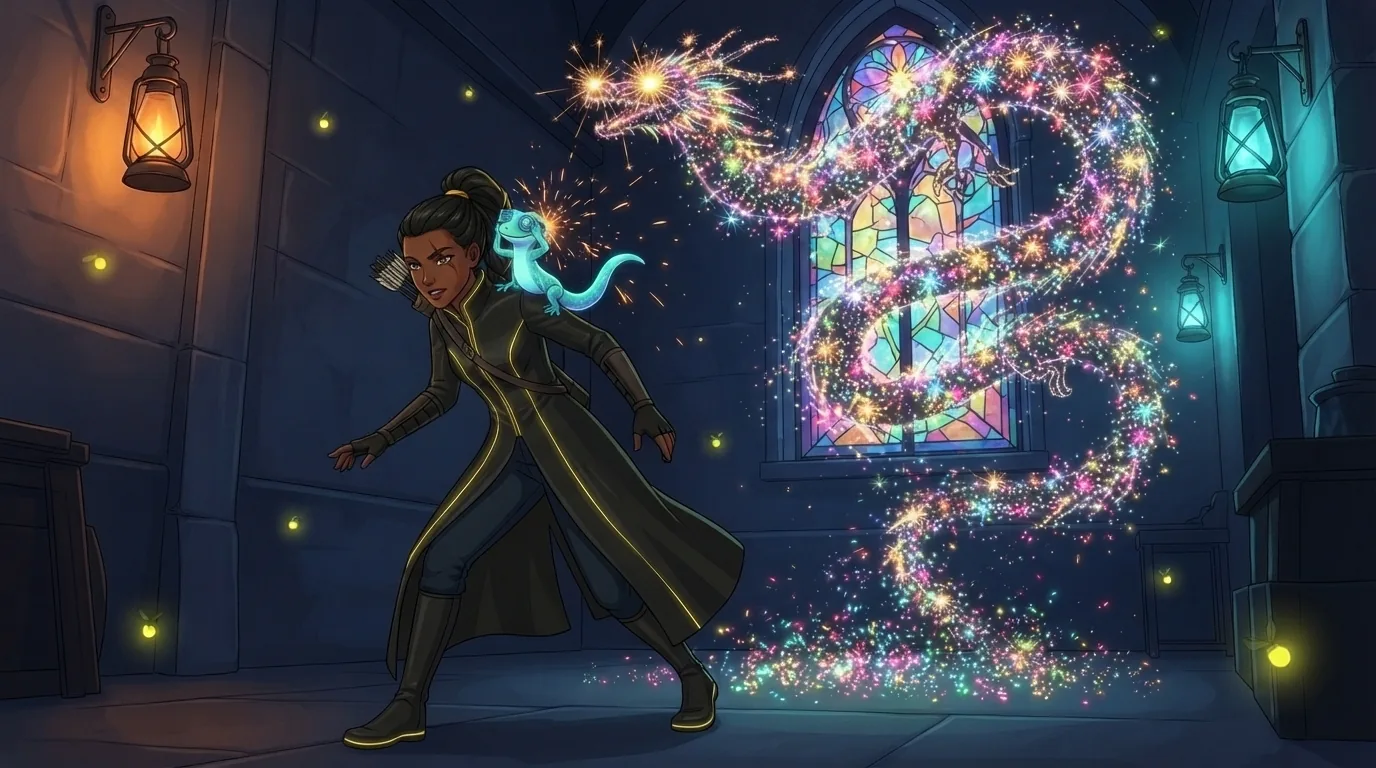
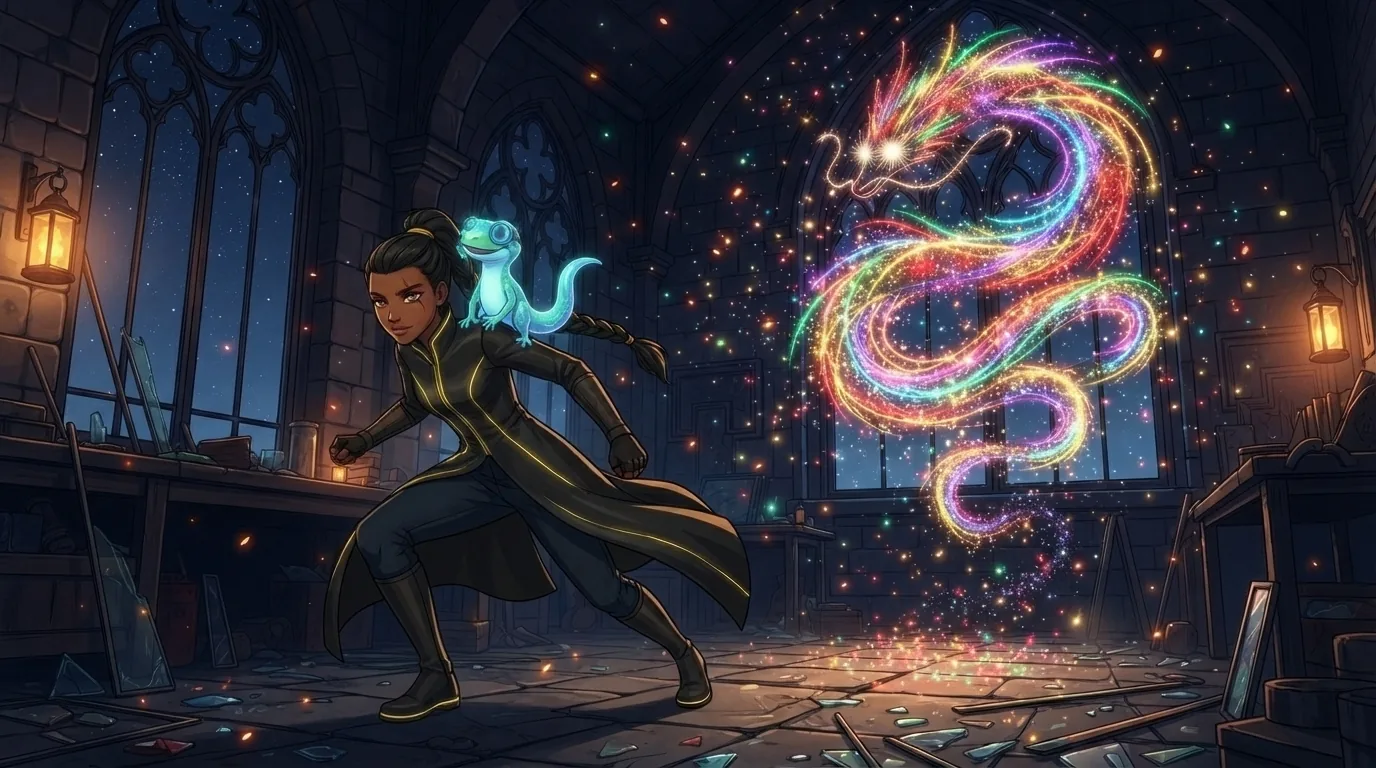
content(js): S02 completa y S03 en curso (255 de 313); troll y dragón rehechos con su hoja

diff --git a/scripts/escenas/pendientes.py b/scripts/escenas/pendientes.py
@@ -208,8 +208,8 @@ REFS = {
             # «Un troll chiquito y gruñón» es una criatura de feria, no el jefe.
             (r'troll chiquito', 'el troll chiquito de feria', ['1d079c0700224221b55e0b9f9bb68949'],
              'El troll chiquito de feria es del alto de un nene de seis años: piel color musgo grisáceo, nariz de papa, pelo de paja y chaleco remendado (el de la izquierda en su referencia).'),
-            (r'\bTroll\b(?! chiquito)|Respuestas Cruzadas', 'el Troll de las Respuestas Cruzadas', ['4997fb2d079a4e5f8d368df45f4caf0e'], 'El Troll mide dos metros y medio.'),
-            (r'Drag[oó]n', 'el Dragón de los Fuegos Artificiales', ['e52542221e7f4053b78a2b7321ac844c'], ''),
+            (r'\b[Tt]roll\b(?! chiquito)|Respuestas Cruzadas', 'el Troll de las Respuestas Cruzadas', ['4997fb2d079a4e5f8d368df45f4caf0e'], 'El Troll mide dos metros y medio.'),
+            (r'[Dd]rag[oó]n', 'el Dragón de los Fuegos Artificiales', ['e52542221e7f4053b78a2b7321ac844c'], ''),
             (r'Polilla', 'la Polilla de los Formularios', ['02a2e1327123409fafe7ed0ed5f2e78e'], 'La Polilla es del tamaño de un perro grande.'),
             (r'Rat[oó]n', 'el Ratón de la Niebla', ['edba9f307a1c4351825086c4ba8c9dcd'], 'El Ratón es del tamaño de un gato.'),
             (r'Herrumbre', 'la Herrumbre', ['8a4b1435aad54333bc96d273832ba9f2'], ''),

diff --git a/docs/ESCENAS.md b/docs/ESCENAS.md
@@ -87,7 +87,7 @@ Qué anduvo (C#, con `GEMINI_3_8_FLASH`; el modelo liviano lo achica y le deja m
 | Ensamblador (antes) | 26 de 31 | Faltan `R01-N03-P7` y `R01-N04-P1`, `P3`, `P6` y `P7` (2026-10-19): las que llevan a Axón o a Kira se cortan por tiempo, con su ficha o descritos con palabras; las de Nova sola salen. En `R01-N04-P5` Stitch cambió a Nova (pelo castaño corto) y se corrigió con [escena, ficha de Nova] y «la chica pasa a ser Nova exactamente como en la segunda»; en `P2` y `P4` sobraba un Gheco (pedir «borrá el gecko de…»). Para rehacer si sobra cuota: `R01-N03-P3` y `P4` (la mochila salió con 3 y 4 bolsillos, no 5) y `P6` (Nova repite la pose de `P5` y no saca la moneda). En R01-N03 anduvo pedir con una sola referencia, la escena `R01-N03-P1` (`9010b157…`), y la mochila de `P3` (`eb5697f1…`); con dos referencias se cortaba seguido. Las primeras 17, en el **proyecto de C** (el Gólem duerme debajo de las Forjas). Nova, Axón, el fondo del interior del Gólem, el logo, la moneda (chispa) y los 6 aspectos de Nova se generaron ahí (`REFS['ensamblador']`). Las escenas usan como referencia el fondo + la ficha de Nova + Gheco, o una escena anterior del mismo lugar (la sala del ojo, la pared de cajones); encadenar siempre la misma da poses repetidas: alternar. Los 6 aspectos salieron en una sola hoja 3×2 recortada con PIL. El 2026-10-19 Nova pasó al diseño recatado (capa de cuello alto, ropa opaca; ficha `66dcc917…`): las 17 escenas, la ficha de Axón y los aspectos se rehicieron con `edit_screens` [escena, ficha de Nova] y el pedido «la chica holograma pasa a ser Nova exactamente como en la segunda, misma pose y lugar». Revisar que no aparezca texto en los visores. |
 | PHP | 273 de 273 | **Completo (2026-10-26)**; falta importar en local y `deploy.sh --cursos`. Lecciones del cierre (S03-N03 a S04): con el modelo liviano anduvo pedir «from scratch» con las fichas de Nilo e Iara (`3defe2e1…`, `5d09d4c2…`) cuando la escena anterior como referencia le sacaba a Nilo la gorra y la bufanda o lo vestía de remera; encadenar la misma escena repite la pose (y una vez salieron dos Nilos y dos Gheco). Si Stitch devuelve un enlace de `stitch.googleapis.com` (pide credenciales), bajar con `download_file` y pasarle a `guardar.py` el .txt de la respuesta. Un pedido de corrección a veces vuelve cuadrado (1024×1024): repetirlo pidiendo «same horizontal 16:9 format». Arreglos con PIL: una orca de más en el cielo (`S03-N03-P3`), letreros y pizarrones con letras (`S04-N01-P1`, `S04-N03-P2` «HARBOR» en tiza, `S04-N04-P3`, `S04-N05-P1`, `S04-N05-P2`) y garabatos en un papel (`S04-N03-P1`). Se rehizo `S04-N01-P1` porque el vidrio roto parecía un robo (alumnos chicos). Antes: Micro-misiones de D111 desde el 2026-10-21; el 2026-10-23 se completaron R01 y R02 y R03-N01 a N03; el 2026-10-25/26, R03, R04, R05 y S01-N01 a N04-P2 (ids en `scripts/escenas/ids/php.json`); sigue `S01-N04-P3`. Ojo en R05: la cola de Gheco se le pegaba a Nilo como cola cian (pedir «an ordinary human boy with no tail»); Elefa lejos sale vestida como Nilo (traerla al frente y describir la armadura «head to toe»); el bolso remendado de Nilo trae a veces un parche cian con forma de gecko, que vale (Iara se lo cosió después de la Gorgona). `guardar.py` ya recorta solo las franjas negras que agrega Stitch. Antes: sigue `R03-N05-P1`; antes `R01-N05-P6`. Lo que anduvo: las fichas con «from scratch» o la escena anterior como única referencia; si la anterior tiene un barco o un objeto llamativo, lo arrastra (el barco tortuga). Elefa sale del tamaño de una persona si no se pide «HUGE, almost one meter taller than every person»; volvió la cola cian suelta (corregida con «remove the glowing cyan tail»). Stitch escribió «La Fonda del Puerto» en el cartel porque lo puso en su propio pedido: corregir con «plain bare wood with a small carved drawing». La pipa del capitán de `R01-N03-P7` se sacó (alumnos chicos). Antes: la Clase 0 y R01 completos (2026-10-13), más 18 sueltas de R03–R05 hechas para la temporada del Puerto (2026-10-14, fila de abajo); R02-N01 a R02-N08 (2026-10-18), encadenando cada escena con la anterior del mismo lugar; sigue `R02-N08-P4`. Ojo en R02: Stitch escribió «LEFT/RIGHT» junto a flechas y rotulitos en estantes (tapados con PIL), a veces dibuja un segundo Gheco en un cartel o le da a Elefa dos bastones (pedir «sostiene con LAS DOS MANOS su ÚNICO bastón»); con la referencia de una escena, Iara y Elefa pueden perder su ropa: corregir pasando su ficha como segunda referencia. La Sirena ya está descrita con blusa cerrada en los .md y en PERSONAJES.md. Ojo: a veces sale un segundo Gheco o una cola cian suelta; pedir «UN SOLO Gheco». Para rehacer si sobra cuota: `R01-N08-P4` (las cajas no quedaron una dentro de la otra). Gheco a veces sale más grande que una mano y algún número de objetos no coincide (3 cajones en vez de 4): se dejaron cuando no cambia la escena. Historia, personajes y mapa en el proyecto de PHP (`REFS['php']`, docs/historias/php.md). Ojo: una corrección con `edit_screens` puede redibujar la escena entera (la de Elefa en el mostrador perdió la gorra de Nilo al arreglarle la bufanda): mirar cada versión. |
 | C# | 25 de 25 | Demostración completa (2026-11-04), en el proyecto de la Feria; el 2026-11-05 se rehicieron las 10 con Gheco para que sea el oficial (ver arriba). Con Ceci, usar siempre su ficha `6d9cb358…` como referencia, y pedir «pantalón oscuro, sin falda»: tomando como referencia una escena con ella, salía con falda. |
-| JavaScript | 241 de 313 | En curso (2026-11-06): Clase 0 y R01 a R05 completas, S01 completa; sigue S02. **Lo que más rindió el 2026-11-06 (unas 3 escenas cada 2 minutos):** en lugar del pedido largo de `pendientes.py`, uno corto con UNA referencia que sea una escena buena del mismo lugar y los mismos personajes («Generá una IMAGEN NUEVA de escena, con los mismos dos personajes y el mismo taller de esta imagen…»). Con pedidos de 4 o 5 referencias se corta más. Si dice «ya está generada» sin devolverla, otra referencia y «Dibujá una pantalla nueva, en otra disposición». Se escapan letras en vidrios y pizarrones del fondo (`S01-N04-P4`, `S01-N03-P4`, tapadas): mirar cada imagen. Si Gheco va en la capucha se mezcla con Nima (`R05-N07-P1`): pedirlo en el hombro. **Desde `R04-N05-P1` Nima va con saco de cuero largo hasta los muslos** (`pendientes.py` y referencia `0f9fcc6d…`): con la chaqueta corta Stitch le dejaba la panza al aire casi siempre y el parche de `tapar.py` se notaba; las escenas anteriores siguen con la corta. Se puede pedir corto si se usa de referencia una escena buena con los mismos personajes (Nima y Saeta `a409a244…`, torre con campana `08fc7b12…`, Nilo y Elefa `b003d98a…`). Sin la referencia de cuerpo entero de Nima `2fca95e3…` (y aun con ella) se le ve piel en la cintura o la espalda: se tapa con `tapar.py … piel 24`. Si la referencia ya tiene a un personaje, puede salir repetido: pedir «exactamente tres figuras». Hilván salía aniñado o moreno: `pendientes.py` lo pide «HOMBRE ADULTO», y si salen dos iguales, pedir «exactamente UN solo Hilván» y decir dónde está parado. Los títeres de bailarina salían como chicas reales: pedirlos chiquitos, de madera con articulaciones y vestido largo. Con una «escena sin personas» conviene describir el esqueleto o la criatura. Revisar siempre cajones y carteles: en `R03-N06-P6` Stitch escribió su pedido negativo en los cajones (se tapó). Se pueden mandar 3 pedidos de Stitch a la vez. Bruno, Tati, Hilván y Gheco salían con otra ropa o color aunque estuviera la referencia: `pendientes.py` ya describe su ropa en cada pedido, y conviene sumar como referencia una escena buena con ellos (Hilván y Nima `938608ee…`, Bruno y Tati `9b10bc57…`). Los telones de fondo y los talleres con engranajes salen con runas o signos: pedir «fondo de tela lisa» y «cuarto de paredes de madera lisa, sin engranajes ni luces de colores». Los farolitos de papel salen con trazos que parecen letras chinas: pedir «lamparitas redondas de vidrio». Detalles aceptados: círculos decorativos en `R03-N02-P3` y triángulos en el telón de `R03-N02-P5`. `pendientes.py` ya arma el pedido de JS con la 2.ª referencia de Nima, «UNA sola vez», Lumina como insecto (salía hada) y el cierre corto «Imagen solo de dibujo, sin escritura» (el pedido negativo largo lo escribía en los papeles). Antes de mandar, cambiar a mano lo que invita a escribir: «cartel», «número», «cuentas», «lista» → dibujitos, rayitas de tiza, puntitos, monedas; las boleterías salen con «TICKET» en el frontón: pedir «el frontón, solo con flores pintadas»; las estrellas pintadas, como chispa; los palitos de a cinco salían como letras chinas (usar puntitos); con gente en fila, pedir aldeanos europeos (chalecos, boinas, faldas largas) o salen kimonos. Si salen dos Gheco, regenerar con «un solo Gheco» (borrarlo deja mancha). Piel de Nima a la vista: `tapar.py ESCENA X0 Y0 X1 Y1 piel 24` la pinta como remera oscura. Los orcos de feria usan la referencia del ogro de la Feria (gris azulado, pelo naranja; sin ella salían como goblins). Stitch sigue escribiendo su propio pedido negativo («ABSOLUTELY NO LETTERS…») en papeles y carteles, y a veces deja a Nima con la panza al aire aun con la 2.ª referencia: se tapan con `python3 scripts/escenas/tapar.py ESCENA X0 Y0 X1 Y1 oscuro|claro UMBRAL` (letras oscuras o piel clara, rellenando con lo de alrededor); las ediciones de Stitch para arreglarlo a veces rehacen la escena entera o la parten en dos viñetas. Proyecto de los **Talleres** (`9229721314509917104`, ahí estaban Nima, Lumina y Gheco); la gente de la Feria y los cruces (Nilo, Iara, Elefa, Pico, Nova, Axón) se dibujaron ahí el 2026-10-30 (ids en `REFS['javascript']`). **Lecciones:** «faroles de papel» vuelve la Feria un festival japonés con letras orientales y máscaras: el ambiente pide «feria de pueblo europea antigua… nada oriental»; pizarras: describir lo que tienen (estrellitas, círculos de tiza), nunca «sin letras» (escribió «NO letters» en la pizarra); estrellas pintadas, «rellenas» o un sol (salió un pentagrama); Gheco con una lupa sale enorme: «cabe en la palma de una mano»; los ogros de feria, verdes, salían como Shrek: ahora tienen referencia propia (gris azulado, pelo naranja); si un cartel sale con letras, se corrige editando esa misma pantalla («borrá las letras y pintá estrellitas»), pero a veces la edición rehace toda la escena (Nima salió de soldado): si pasa, generarla de nuevo desde las referencias, describiendo qué tiene dibujado cada papelito. Con el modelo liviano Nima a veces sale con la panza al aire: por eso lleva de segunda referencia la escena de la calesita (R01-N03-P1); `pendientes.py` pone una sola pantalla por personaje, así que esa se agrega a mano. Una vez escribió el pedido negativo como texto al pie: se recorta la franja. Con 2–3 referencias y el modelo liviano salen casi todas al primer intento. |
+| JavaScript | 255 de 313 | En curso (2026-11-06): Clase 0 y R01 a R05 completas, S01 y S02 completas; S03 hasta N01-P2. **Regla del docente (2026-11-06): cada personaje de una escena va con su hoja de 8 ángulos**, para mantener las proporciones; una escena anterior puede sumarse para el lugar, pero no la reemplaza. `pendientes.py` no reconocía «troll» y «dragón» en minúscula: `R04-N08` y `R05-N07` salieron con otro diseño y se rehicieron con su hoja (ya corregido). Sin hoja en este proyecto queda Fermín (`S02-N04-P3`, la suya está en el de PHP). La polilla de `S01-N04` se hizo con su imagen `02a2e132…`, no con la hoja: coincide y quedó. **Lo que más rindió:** pedidos cortos con 1 a 3 referencias, unas 3 escenas cada 2 minutos; con 5 se corta más. Si dice «ya está generada» sin devolverla, otra referencia y «Dibujá una pantalla nueva, en otra disposición». Las «crucecitas» salen como crucifijos: pedir «botoncito redondo con dos rayitas cruzadas en aspa». Se escapan letras en vidrios y pizarrones del fondo (`S01-N04-P4`, `S01-N03-P4`, tapadas): mirar cada imagen. Si Gheco va en la capucha se mezcla con Nima (`R05-N07-P1`): pedirlo en el hombro. **Desde `R04-N05-P1` Nima va con saco de cuero largo hasta los muslos** (`pendientes.py` y referencia `0f9fcc6d…`): con la chaqueta corta Stitch le dejaba la panza al aire casi siempre y el parche de `tapar.py` se notaba; las escenas anteriores siguen con la corta. Se puede pedir corto si se usa de referencia una escena buena con los mismos personajes (Nima y Saeta `a409a244…`, torre con campana `08fc7b12…`, Nilo y Elefa `b003d98a…`). Sin la referencia de cuerpo entero de Nima `2fca95e3…` (y aun con ella) se le ve piel en la cintura o la espalda: se tapa con `tapar.py … piel 24`. Si la referencia ya tiene a un personaje, puede salir repetido: pedir «exactamente tres figuras». Hilván salía aniñado o moreno: `pendientes.py` lo pide «HOMBRE ADULTO», y si salen dos iguales, pedir «exactamente UN solo Hilván» y decir dónde está parado. Los títeres de bailarina salían como chicas reales: pedirlos chiquitos, de madera con articulaciones y vestido largo. Con una «escena sin personas» conviene describir el esqueleto o la criatura. Revisar siempre cajones y carteles: en `R03-N06-P6` Stitch escribió su pedido negativo en los cajones (se tapó). Se pueden mandar 3 pedidos de Stitch a la vez. Bruno, Tati, Hilván y Gheco salían con otra ropa o color aunque estuviera la referencia: `pendientes.py` ya describe su ropa en cada pedido, y conviene sumar como referencia una escena buena con ellos (Hilván y Nima `938608ee…`, Bruno y Tati `9b10bc57…`). Los telones de fondo y los talleres con engranajes salen con runas o signos: pedir «fondo de tela lisa» y «cuarto de paredes de madera lisa, sin engranajes ni luces de colores». Los farolitos de papel salen con trazos que parecen letras chinas: pedir «lamparitas redondas de vidrio». Detalles aceptados: círculos decorativos en `R03-N02-P3` y triángulos en el telón de `R03-N02-P5`. `pendientes.py` ya arma el pedido de JS con la 2.ª referencia de Nima, «UNA sola vez», Lumina como insecto (salía hada) y el cierre corto «Imagen solo de dibujo, sin escritura» (el pedido negativo largo lo escribía en los papeles). Antes de mandar, cambiar a mano lo que invita a escribir: «cartel», «número», «cuentas», «lista» → dibujitos, rayitas de tiza, puntitos, monedas; las boleterías salen con «TICKET» en el frontón: pedir «el frontón, solo con flores pintadas»; las estrellas pintadas, como chispa; los palitos de a cinco salían como letras chinas (usar puntitos); con gente en fila, pedir aldeanos europeos (chalecos, boinas, faldas largas) o salen kimonos. Si salen dos Gheco, regenerar con «un solo Gheco» (borrarlo deja mancha). Piel de Nima a la vista: `tapar.py ESCENA X0 Y0 X1 Y1 piel 24` la pinta como remera oscura. Los orcos de feria usan la referencia del ogro de la Feria (gris azulado, pelo naranja; sin ella salían como goblins). Stitch sigue escribiendo su propio pedido negativo («ABSOLUTELY NO LETTERS…») en papeles y carteles, y a veces deja a Nima con la panza al aire aun con la 2.ª referencia: se tapan con `python3 scripts/escenas/tapar.py ESCENA X0 Y0 X1 Y1 oscuro|claro UMBRAL` (letras oscuras o piel clara, rellenando con lo de alrededor); las ediciones de Stitch para arreglarlo a veces rehacen la escena entera o la parten en dos viñetas. Proyecto de los **Talleres** (`9229721314509917104`, ahí estaban Nima, Lumina y Gheco); la gente de la Feria y los cruces (Nilo, Iara, Elefa, Pico, Nova, Axón) se dibujaron ahí el 2026-10-30 (ids en `REFS['javascript']`). **Lecciones:** «faroles de papel» vuelve la Feria un festival japonés con letras orientales y máscaras: el ambiente pide «feria de pueblo europea antigua… nada oriental»; pizarras: describir lo que tienen (estrellitas, círculos de tiza), nunca «sin letras» (escribió «NO letters» en la pizarra); estrellas pintadas, «rellenas» o un sol (salió un pentagrama); Gheco con una lupa sale enorme: «cabe en la palma de una mano»; los ogros de feria, verdes, salían como Shrek: ahora tienen referencia propia (gris azulado, pelo naranja); si un cartel sale con letras, se corrige editando esa misma pantalla («borrá las letras y pintá estrellitas»), pero a veces la edición rehace toda la escena (Nima salió de soldado): si pasa, generarla de nuevo desde las referencias, describiendo qué tiene dibujado cada papelito. Con el modelo liviano Nima a veces sale con la panza al aire: por eso lleva de segunda referencia la escena de la calesita (R01-N03-P1); `pendientes.py` pone una sola pantalla por personaje, así que esa se agrega a mano. Una vez escribió el pedido negativo como texto al pie: se recorta la franja. Con 2–3 referencias y el modelo liviano salen casi todas al primer intento. |
 | Inglés · Forjas (temporada 2) | 24 de 24 | Completo (2026-10-14): una portada por episodio, tronco y ramas, `FORJAS-01` a `FORJAS-12` (Ada niña) y `FORJAS-S01` a `FORJAS-S12` (Ada de 15), en `cursos/ingles/escenas/`; las misiones reusan las de C. Hechas en el **proyecto de C** (`12453694413360128121`): Stitch solo toma referencias del mismo proyecto, así que primero se recrearon las hojas de Ada niña (`4eb59d68037844c09f3cf2aafdd77cd4`) y de Ada de 15 (`a94bdbb01fe44e2eb49eea421419838c`) con Eco y el Borrón desde sus fichas, y después cada portada con la hoja + el personaje de la región. **Cada temporada nueva repite esto en el proyecto de su región.** De a una llamada (dos en paralelo ya se cortan); para pasar una escena de Ada niña a Ada de 15, «como la segunda, pero con Ada de 15 de la primera» con la portada de Primaria como referencia sale a la primera. Ojo: a veces le saca las cejas o el pelo a quien no corresponde, o escribe un título: revisar cada una. |
 | Inglés · Puerto (temporada 3) | 24 de 24 | Completo (2026-10-14): `PUERTO-01` a `PUERTO-12` (Ada niña) y `PUERTO-S01` a `PUERTO-S12` (Ada de 15) en `cursos/ingles/escenas/`, hechas en el **proyecto de PHP** con las hojas de Ada recreadas ahí (niña `fd32dbcd41874f3ebedd1802bb364b76`, de 15 `ec1abd3a409d48b58277a0408b62d043`). Para las de Secundaria anduvo mejor el pedido **corto** «como la segunda, con Ada de 15 y Eco joven de la primera» (los largos se cortan por tiempo). Ojo: la Sirena salió sin mangas en una (corregida: blusa cerrada con mangas y cuello alto), en otra quedaron dos Ecos y en otra un título y palabras en el agua. De paso se hicieron **18 escenas de PHP** (R01-N10-P3/P4, R03-N04, R04-N01, R04-N02-P1, R04-N07, R05-N06-P3, R05-N07, R05-N08-P2) que usan el curso y la temporada; usar la escena anterior como única referencia (con los personajes ya dibujados) es lo que menos se corta. |
 | Inglés · Ciudadela (temporada 4) | 24 de 24 | Completo (2026-10-14): `CIUDADELA-01` a `12` (Ada niña) y `CIUDADELA-S01` a `S12` (Ada de 15) en `cursos/ingles/escenas/`, hechas en el **proyecto de C++** (`14674491267148198305`) con las hojas de Ada recreadas ahí (niña `d78c472031ae4da8b564180cc607e12b`, de 15 `888fedb546b049779bc0758f69293c42`; la primera hoja dibujó al Borrón como un gato: pedir «mancha sin patas, orejas ni cola»). `S08` a `S12` se hicieron cuando volvió la cuota de Stitch; en `S08` quedaron dos Adas y en `S10` la de 15 salió del tamaño de la nena: las dos se corrigieron con un segundo pedido. Ojo: una portada que parte de otra escena arrastra lo de esa escena (la cocina salió inundada por usar la portada del comedor como referencia; se rehízo desde la escena seca de C++).
